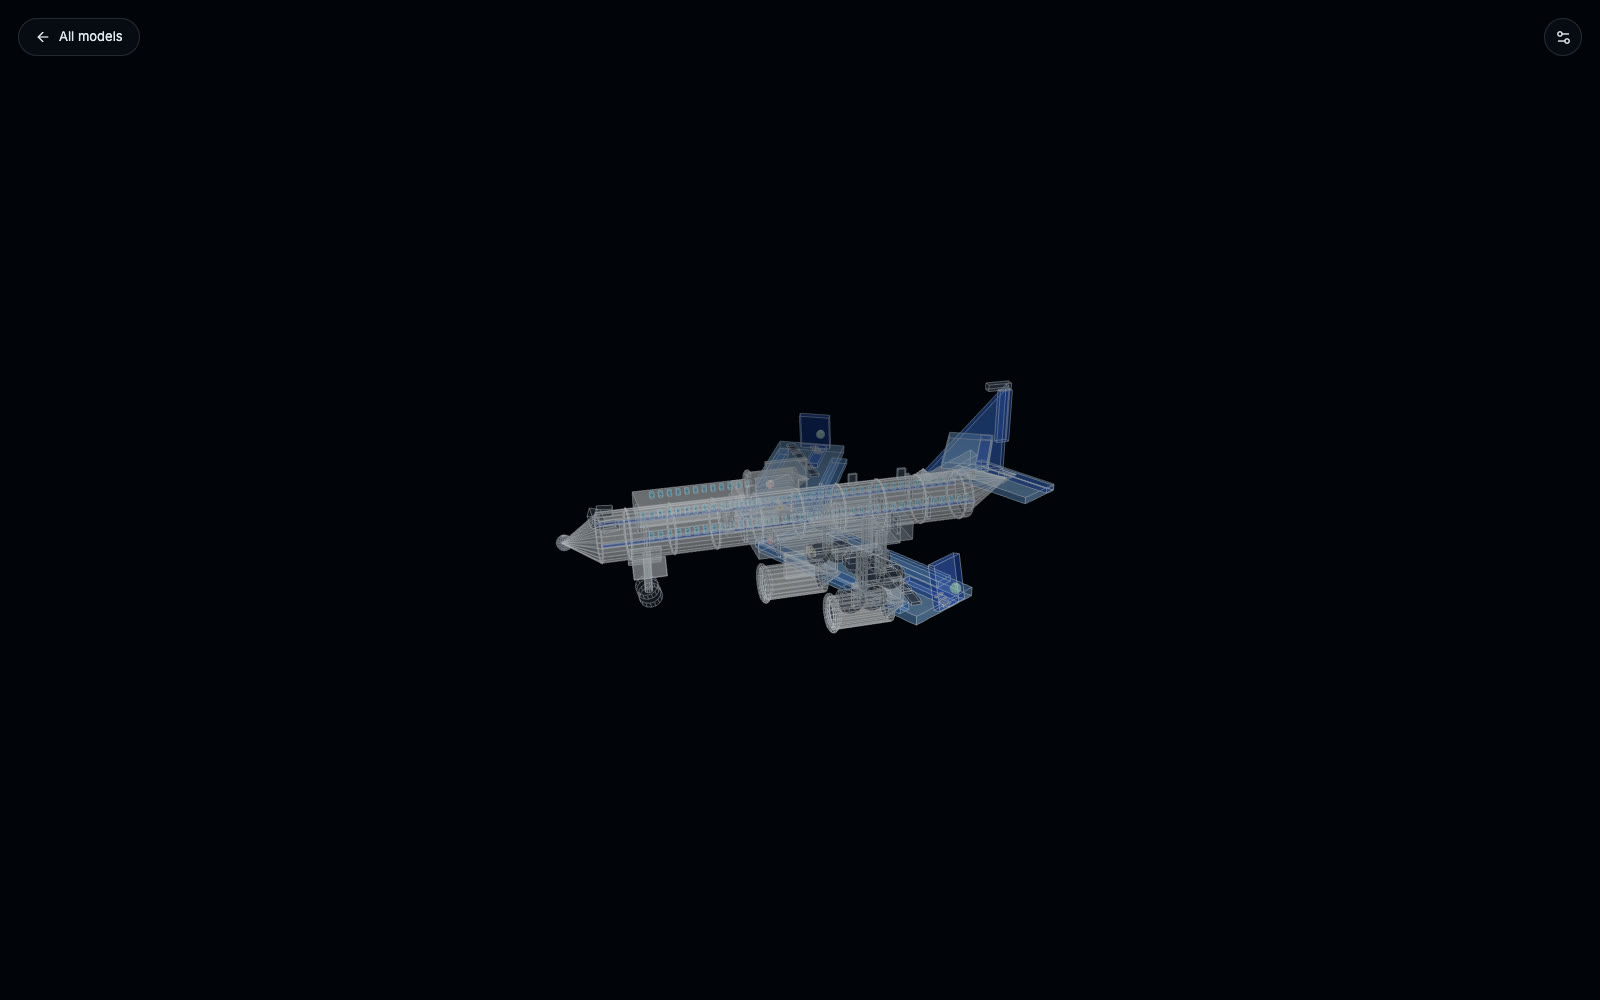
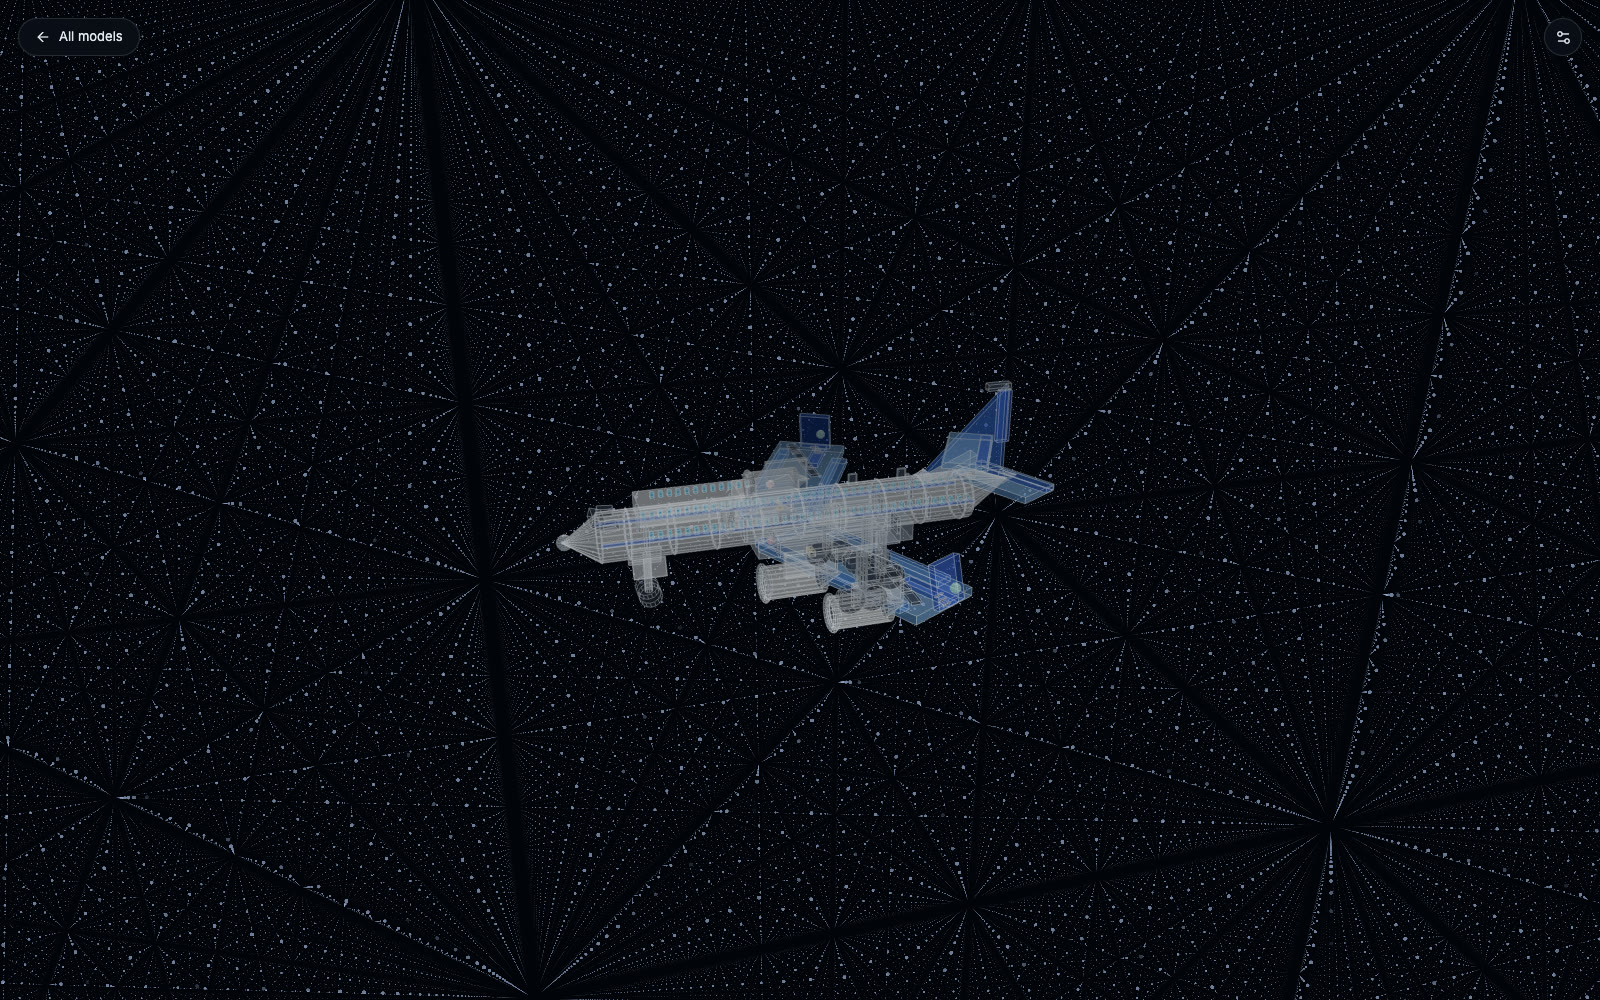
feat(gallery): show what each model cost, and a clean capture mode
Cards and the viewer now carry the measured build cost (tokens and seconds)
where it was recorded, and say 'computed - no AI' for the maths models.
Models open with the space lattice on, and ?clean=1 hides the chrome for
screen-recording. Thumbnails re-shot to match.

Changed region(s): [[0.2188, 0.992, 0.2812, 1.0]]

diff --git a/src/gallery/GalleryApp.tsx b/src/gallery/GalleryApp.tsx
@@ -11,18 +11,18 @@ import { EXPORT_FORMATS, exportModel, type ExportFormat } from "../features/stud
 import { DETAIL, DETAIL_LEVELS } from "../features/studio/detail";
 import type { Shape3D } from "../types";
 import type { ViewSettings } from "../features/studio/state/types";
-import { CATALOG, modelUrl, thumbUrl, type GalleryItem } from "./catalog";
+import { CATALOG, costLabel, modelUrl, thumbUrl, type GalleryItem } from "./catalog";
 
 const REPO = "https://github.com/rajkandula/vertex-3d-studio";
 
-// Models open as a solid surface with its edges, on plain black — switch the dots on to see
-// how the studio draws them.
+// Models open as a solid surface with its edges, standing in the dot lattice — switch
+// Model dots on to see how the studio draws the object itself.
 const DEFAULT_VIEW: ViewSettings = {
   dots: false,
   mesh: true,
   meshOpacity: 0.45,
   wireframe: true,
-  field: false,
+  field: true,
   reasoning: false,
   detail: "normal",
   autoRotate: true,
@@ -98,6 +98,7 @@ function Grid({ onOpen }: { onOpen: (id: string) => void }) {
                 </div>
                 <code>{m.prompt}</code>
                 <p>{m.note}</p>
+                {costLabel(m) && <span className="gal-cost">{costLabel(m)}</span>}
               </div>
             </button>
           </li>
@@ -111,6 +112,9 @@ function Grid({ onOpen }: { onOpen: (id: string) => void }) {
     </div>
   );
 }
+
+// ?clean=1 strips the chrome, for screen-recording a model on its own.
+const CLEAN = new URLSearchParams(window.location.search).has("clean");
 
 function Viewer({ item, onBack }: { item: GalleryItem; onBack: () => void }) {
   // A model file is either a parts recipe (AI-built) or a finished Shape3D (computed math).
@@ -171,12 +175,15 @@ function Viewer({ item, onBack }: { item: GalleryItem; onBack: () => void }) {
         <div className="nothing-hint">Nothing to draw — turn on Model dots, Mesh or Wireframe.</div>
       )}
 
-      <button className="gal-back" onClick={onBack}>
-        <ArrowLeft size={16} /> All models
-      </button>
+      {!CLEAN && (
+        <button className="gal-back" onClick={onBack}>
+          <ArrowLeft size={16} /> All models
+        </button>
+      )}
 
       <button
         className="acct-btn gal-gear"
+        hidden={CLEAN}
         onClick={() => setPanelOpen((o) => !o)}
         aria-label="View settings"
         aria-expanded={panelOpen}
@@ -184,7 +191,7 @@ function Viewer({ item, onBack }: { item: GalleryItem; onBack: () => void }) {
         <Settings2 size={17} />
       </button>
 
-      {panelOpen && (
+      {panelOpen && !CLEAN && (
       <aside className="gal-panel">
         <div className="gal-panel-head">
           <span>
@@ -196,6 +203,7 @@ function Viewer({ item, onBack }: { item: GalleryItem; onBack: () => void }) {
           </button>
         </div>
         <p>{item.note}</p>
+        {costLabel(item) && <span className="gal-cost">{costLabel(item)}</span>}
 
         <div className="acct-label">Show</div>
         <div className="gal-toggles">

diff --git a/src/gallery/catalog.ts b/src/gallery/catalog.ts
@@ -14,11 +14,23 @@ export interface GalleryItem {
   parts: number;
   unit?: string; // "parts" for AI builds, "nodes" for computed math models
   note: string;
+  tokens?: number; // what the build actually cost, when it was measured
+  seconds?: number;
+  computed?: boolean; // maths, not a model call
+}
+
+/** "16,615 tokens · 253s", "computed — no AI", or nothing when the build wasn't measured. */
+export function costLabel(m: GalleryItem): string | null {
+  if (m.computed) return "computed — no AI, no tokens";
+  if (!m.tokens) return null;
+  return `${m.tokens.toLocaleString()} tokens${m.seconds ? ` · ${m.seconds}s` : ""}`;
 }
 
 export const CATALOG: GalleryItem[] = [
   {
     id: "manhattan",
+    tokens: 16615,
+    seconds: 253,
     title: "Manhattan Skyline",
     prompt: "the Manhattan skyline as an architectural model",
     parts: 69,
@@ -26,6 +38,8 @@ export const CATALOG: GalleryItem[] = [
   },
   {
     id: "saturn-v",
+    tokens: 19220,
+    seconds: 190,
     title: "Saturn V",
     prompt: "a Saturn V rocket in full engineering detail",
     parts: 88,
@@ -33,6 +47,7 @@ export const CATALOG: GalleryItem[] = [
   },
   {
     id: "container-ship",
+    seconds: 208,
     title: "Panamax Container Ship",
     prompt: "a giant Panamax container ship at sea",
     parts: 100,
@@ -40,6 +55,8 @@ export const CATALOG: GalleryItem[] = [
   },
   {
     id: "airliner",
+    tokens: 11941,
+    seconds: 198,
     title: "Wide-Body Airliner",
     prompt: "a large four-engine commercial airliner",
     parts: 64,
@@ -47,6 +64,8 @@ export const CATALOG: GalleryItem[] = [
   },
   {
     id: "hometree",
+    tokens: 14985,
+    seconds: 128,
     title: "Colossal Hometree",
     prompt: "a colossal Avatar-style Hometree",
     parts: 90,
@@ -54,6 +73,8 @@ export const CATALOG: GalleryItem[] = [
   },
   {
     id: "lighthouse",
+    tokens: 8371,
+    seconds: 59,
     title: "Coastal Lighthouse",
     prompt: "a lighthouse",
     parts: 55,
@@ -89,6 +110,7 @@ export const CATALOG: GalleryItem[] = [
   },
   {
     id: "tesseract",
+    computed: true,
     title: "Tesseract",
     prompt: "generateTesseract()",
     parts: 16,
@@ -97,6 +119,7 @@ export const CATALOG: GalleryItem[] = [
   },
   {
     id: "mobius",
+    computed: true,
     title: "Möbius Strip",
     prompt: "generateMobiusStrip()",
     parts: 48,

diff --git a/src/gallery/gallery.css b/src/gallery/gallery.css
@@ -144,6 +144,11 @@ body.viewing {
   line-height: 1.55;
   color: rgba(226, 232, 240, 0.6);
 }
+.gal-cost {
+  font-family: var(--font-mono, ui-monospace, monospace);
+  font-size: 11.5px;
+  color: rgba(226, 232, 240, 0.4);
+}
 .gal-foot {
   max-width: 1180px;
   margin: 44px auto 0;
